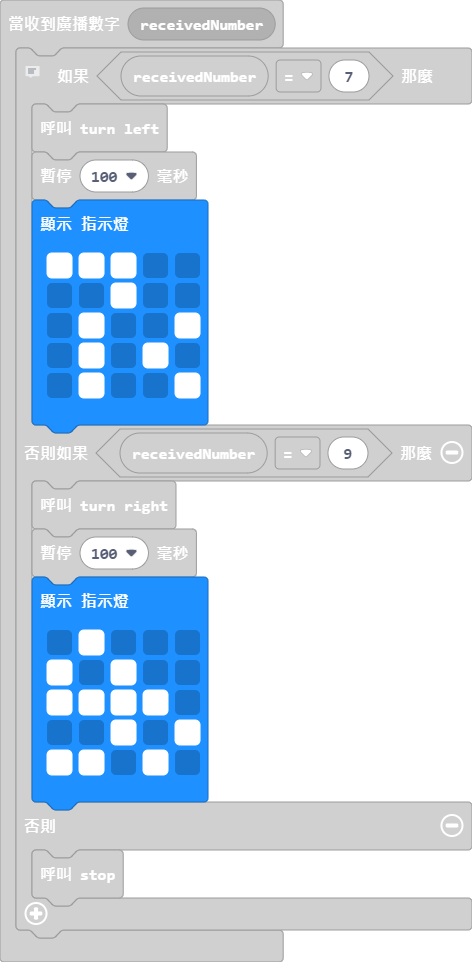
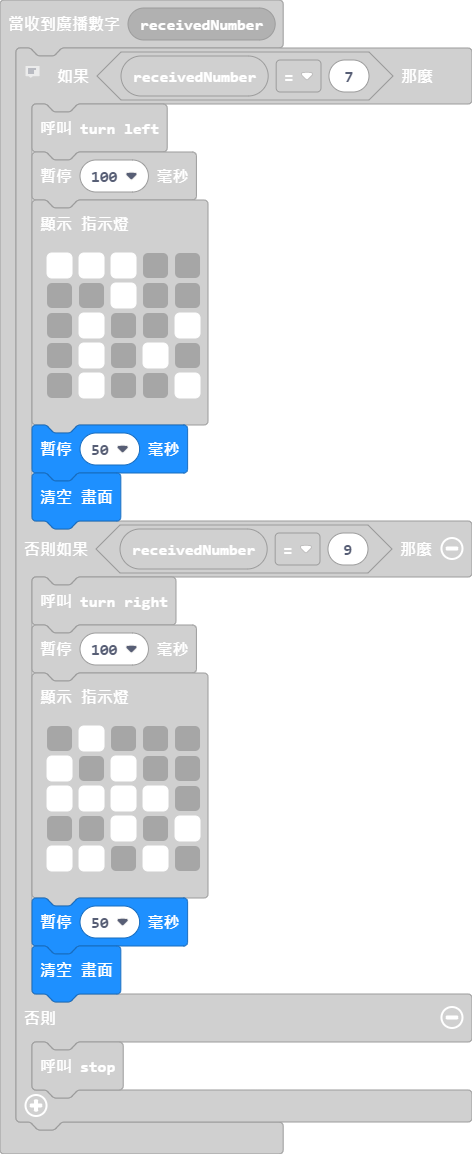
更新 main.blocks, main.ts

Changed region(s): [[0.0297, 0.0, 1.0, 0.9979]]

diff --git a/main.ts b/main.ts
@@ -20,6 +20,8 @@ radio.onReceivedNumber(function (receivedNumber) {
             . # . # .
             . # . . #
             `)
+        basic.pause(50)
+        basic.clearScreen()
     } else if (receivedNumber == 9) {
         turn_right()
         basic.pause(100)
@@ -30,6 +32,8 @@ radio.onReceivedNumber(function (receivedNumber) {
             . . # . #
             # # . # .
             `)
+        basic.pause(50)
+        basic.clearScreen()
     } else {
         stop()
     }
